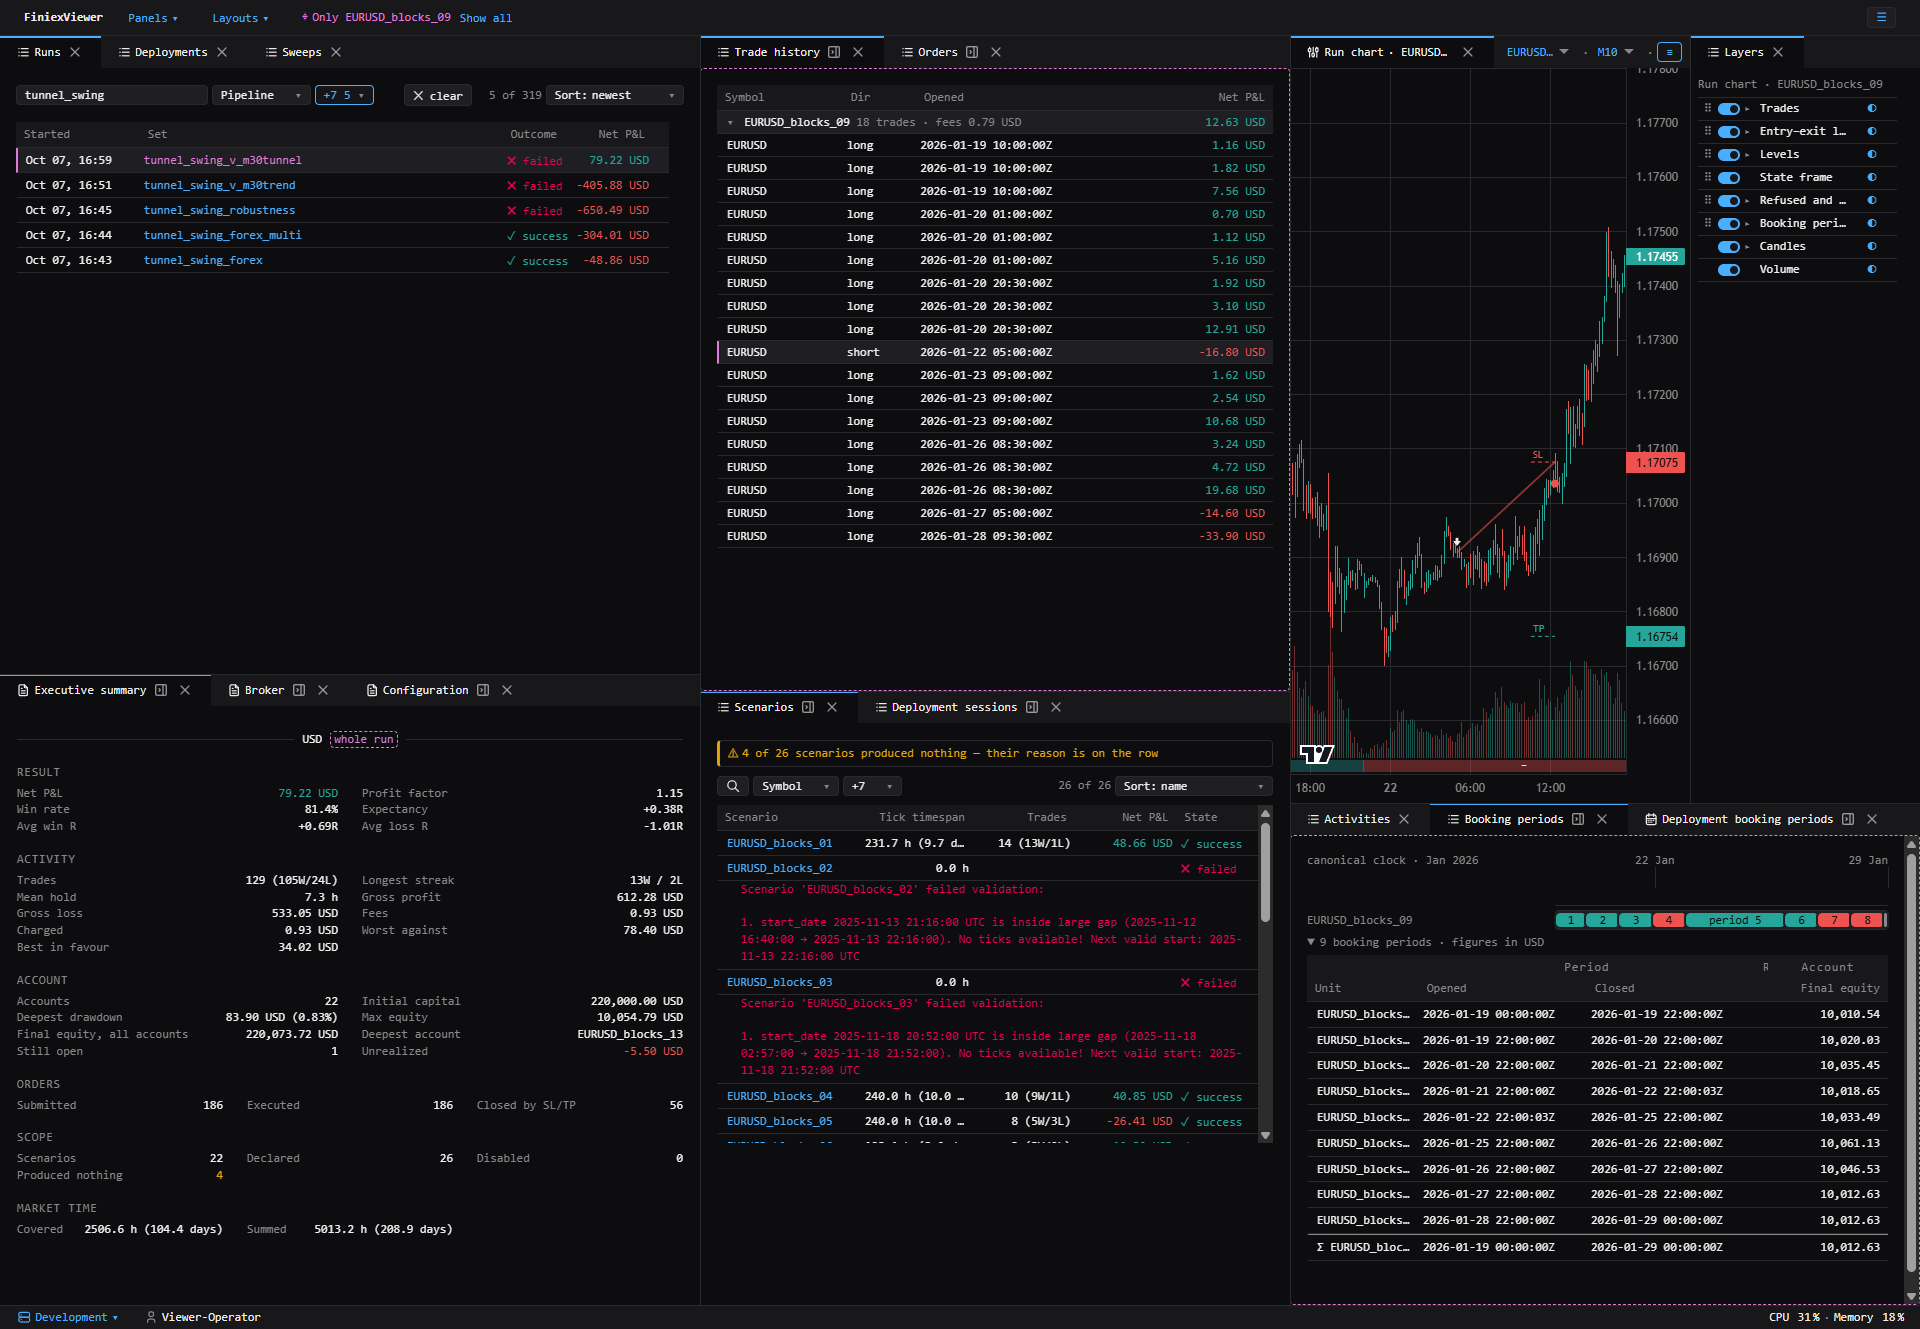
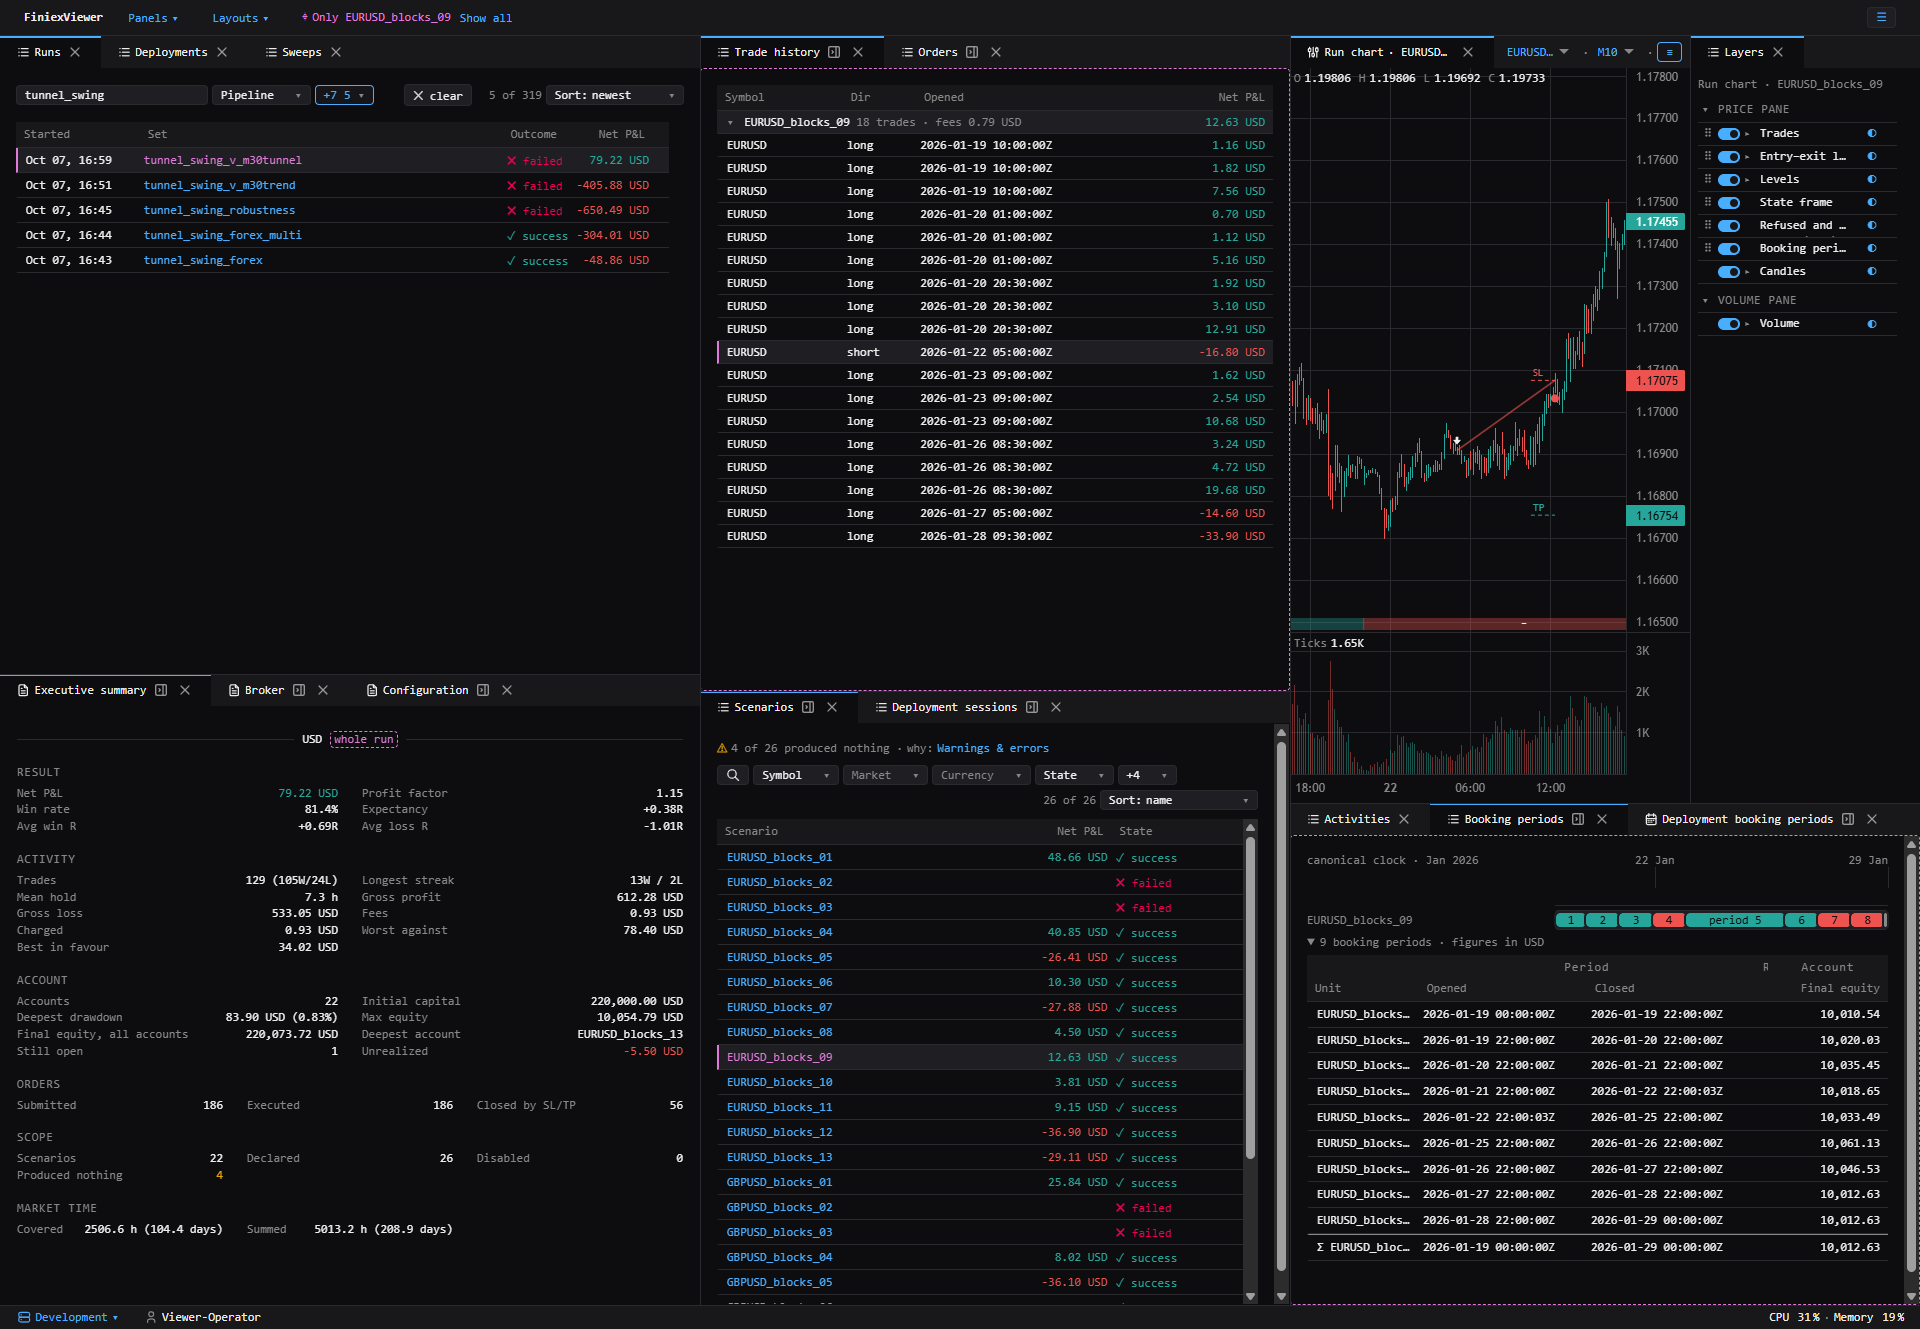
Raise the version to 0.7.0, with the README and its pictures
The README's status and its feature list say what this version adds:
the run chart's panes with their legends and controls, the time lane
of booking periods and refused orders, and the status bar below the
panels.

The pictures are taken again against the live API. The picture spec
dismisses every hint of the registry before it takes them; the hints
added since the last release were missing from its list, so a picture
could have shown one.

diff --git a/e2e/readme_pictures.spec.ts b/e2e/readme_pictures.spec.ts
@@ -41,6 +41,8 @@ const HINTS = [
   'layer-volume', 'layer-state-frame', 'layer-empty-levels', 'layer-empty-entry-exit', 'layer-empty-trades',
   'layer-empty-state-frame', 'chart-marks',
   'trade-slippage', 'position-link', 'beyond-the-venue', 'first-start', 'run-membership',
+  'chart-panes', 'layer-periods', 'layer-empty-periods', 'layer-refusals', 'venue-account', 'bundle-places',
+  'servers', 'layouts', 'layout-by-run', 'size-by-window', 'suggested-order',
 ]
 
 async function prepare(page: Page): Promise<void> {

diff --git a/README.md b/README.md
@@ -1,9 +1,10 @@
 # FiniexViewer
 
-> **Version:** v0.6.0 Pre-Alpha Showcase
-> **Status:** v0.6.0 — named layouts in three sizes, offered by the run you pick; several servers, one
-> per window; what the venue itself held beside a live session's books; prices at the instrument's
-> tick size, and bars loaded as the chart moves. 1772 unit tests and a browser suite.
+> **Version:** v0.7.0 Pre-Alpha Showcase
+> **Status:** v0.7.0 — the run chart stacks panes: the volume in a pane of its own, a legend and
+> controls in each pane, the heights kept with the layout; a time lane of booking periods and refused
+> orders; a status bar below the panels, both bars giving room by rank. 1845 unit tests and a browser
+> suite.
 
 A web-based viewer companion for **[FiniexTestingIDE](https://github.com/dc-deal/FiniexTestingIDE)**.
 
@@ -24,8 +25,9 @@ kept across a reload.
 The run report is a bundle whose sections open as panels of their own — here every one stands apart,
 arranged in three columns. One scenario in focus narrows every list, and the run chart draws that
 scenario's trades where they opened and closed, the stop loss, the take profit and the entry–exit
-line of the position looked at, and the volume behind the candles. The Layers panel shows, fades and
-orders what the chart draws — by dragging.
+line of the position looked at, its booking periods and refused orders in a lane along the bottom, and
+the volume in a pane of its own below — each pane with its legend, as tall as you drag it. The Layers
+panel shows, fades and orders what the chart draws, grouped by pane.
 
 ### A live bot across its restarts
 
@@ -52,6 +54,8 @@ objective it declared, and one click makes a combination the run on show.
 
 ### And more
 
+- **Two bars** — the menu bar above the panels chooses, a status bar below them states the server,
+  the account, the contract and the machine; in a narrow window both shorten their entries by rank.
 - **Layouts** — the placement of the panels saved under a name: *Backtests* and *Deploys* ship with
   the app, each in a Full, a Medium and a Mobile size, and picking a run offers the one it fits.
 - **Several servers** — a switch in the status bar, each window showing one, and a run host reached
